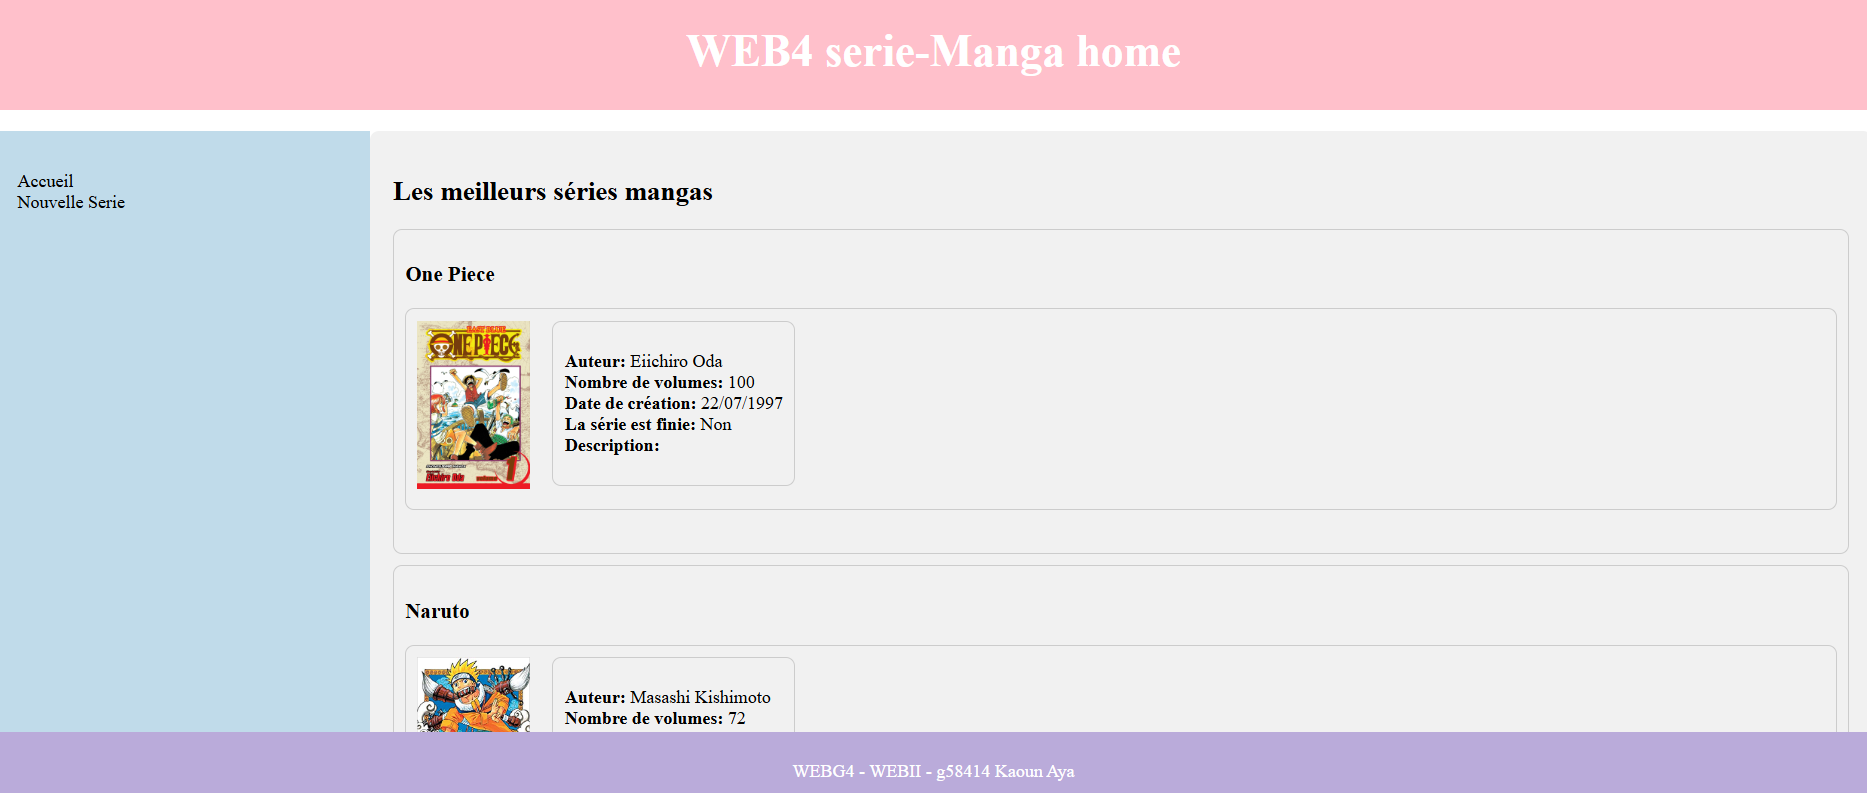
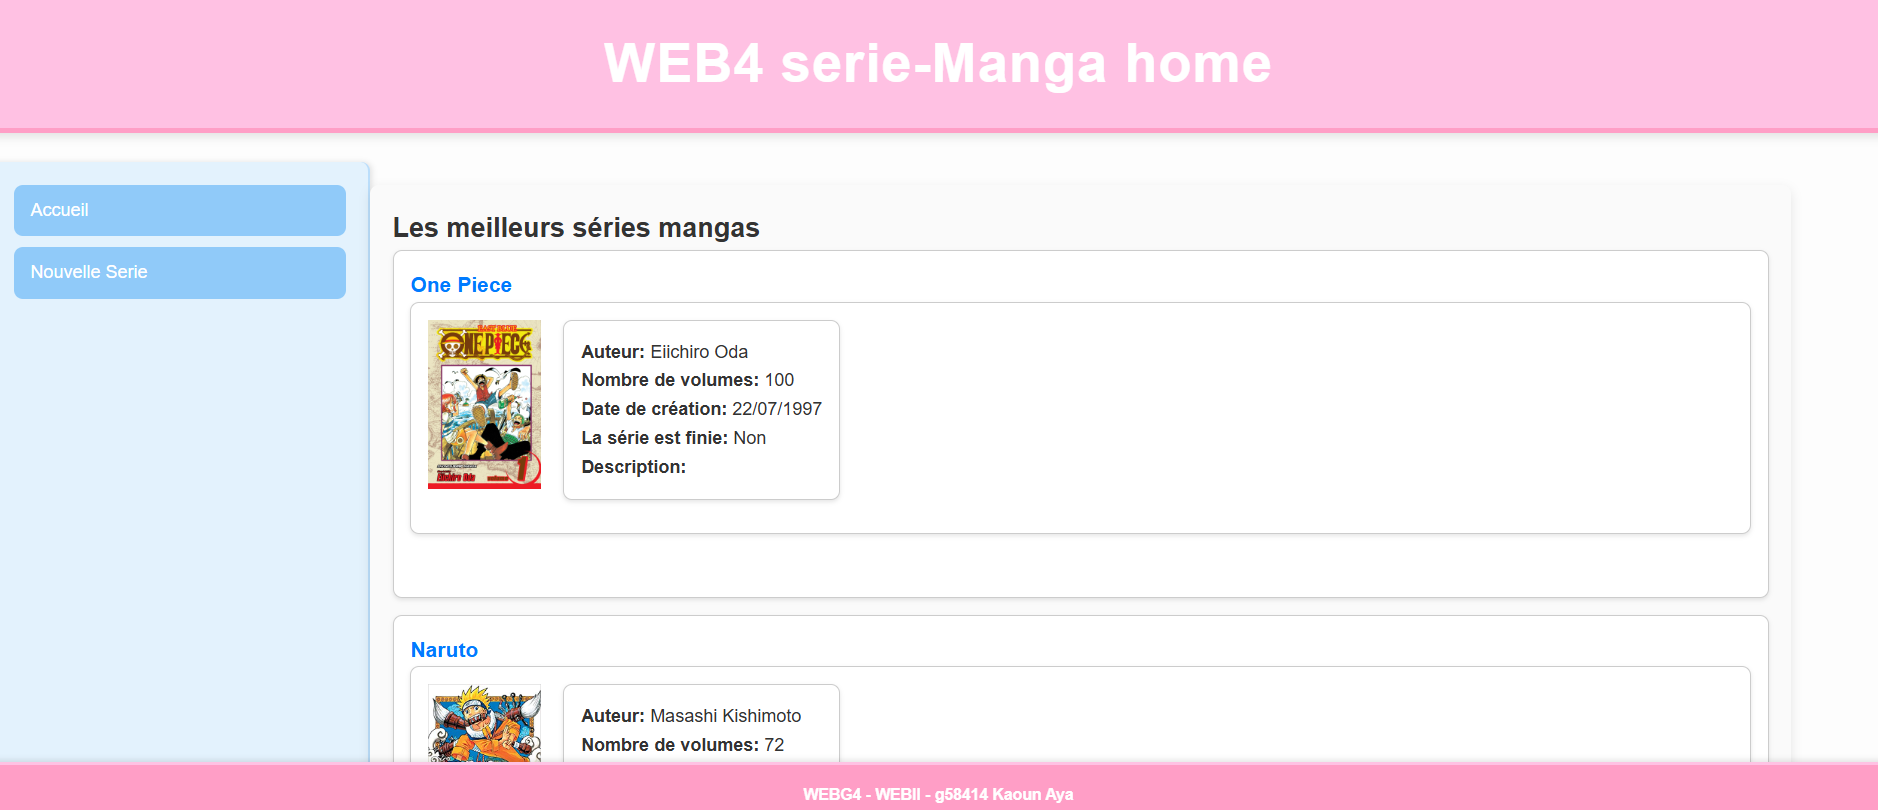
update pic

diff --git a/Mangas/public/css/manga.css b/Mangas/public/css/manga.css
@@ -1,94 +1,130 @@
-
 * {
-    box-sizing: border-box;
-  }
-  
-  #body {
-    font-family: Arial, Helvetica, sans-serif;
-  }
-  
-  /* Style the header */
-  #header {
-    background-color: pink;
-    padding: 2px;
-    text-align: center;
-    font-size: 20px;
-    color: white;
-  }
-  
-  /* Create two columns/boxes that floats next to each other */
-  #nav {
-    float: left;
-    width: 20%;
-    height: 100vh; /* only for demonstration, should be removed */
-    background: #C0DBEA;
-    padding: 20px;
-  }
-  
-  /* Style the list inside the menu */
-  #nav ul {
-    list-style-type: none;
-    padding: 0;
-  }
-  
+  box-sizing: border-box;
+  margin: 0;
+  padding: 0;
+}
+
+body {
+  font-family: 'Poppins', Arial, Helvetica, sans-serif;
+  background-color: #fdfdfd;
+  color: #333;
+  line-height: 1.6;
+}
+
+/* Style the header */
+#header {
+  background-color: #FFC1E3; /* Soft pink */
+  padding: 20px;
+  text-align: center;
+  font-size: 24px;
+  color: white;
+  border-bottom: 5px solid #FF9EC6;
+  font-weight: 700;
+  letter-spacing: 1px;
+  box-shadow: 0 4px 8px rgba(0, 0, 0, 0.1);
+}
+
+/* Style the navigation menu */
+#nav {
+  float: left;
+  width: 20%;
+  height: 100vh;
+  background: #E3F2FD; /* Light blue */
+  padding: 20px;
+  box-shadow: 2px 0 5px rgba(0, 0, 0, 0.1);
+  border-right: 2px solid #BBDEFB;
+  border-radius: 0 8px 8px 0;
+}
+
+#nav ul {
+  list-style-type: none;
+}
+
+#nav ul li {
+  margin-bottom: 10px;
+}
+
+#nav ul li a {
+  display: block;
+  padding: 10px 15px;
+  background: #90CAF9; /* Medium blue */
+  color: white;
+  font-weight: 500;
+  border-radius: 8px;
+  transition: background-color 0.3s ease;
+}
+
+#nav ul li a:hover {
+  background: #42A5F5; /* Darker blue for hover */
+  text-decoration: none;
+}
+
+/* Style the main article section */
+#article {
+  float: left;
+  padding: 20px;
+  width: 75%;
+  background-color: #FAFAFA; /* Soft white */
+  height: auto;
+  border-radius: 8px;
+  box-shadow: 0 4px 10px rgba(0, 0, 0, 0.1);
+  margin: 20px 0;
+}
+
+#article div {
+  border: 1px solid #ccc;
+  border-radius: 8px;
+  padding: 15px;
+  margin-bottom: 15px;
+  background: #FFFFFF;
+  box-shadow: 0 2px 4px rgba(0, 0, 0, 0.1);
+}
+
+/* Clear floats */
+#section::after {
+  content: "";
+  display: table;
+  clear: both;
+}
+
+/* Style the footer */
+#footer {
+  position: fixed;
+  bottom: 0;
+  left: 0;
+  width: 100%;
+  background-color: #FF9EC6; /* Softer pink */
+  padding: 15px;
+  text-align: center;
+  color: white;
+  font-size: 14px;
+  font-weight: 600;
+  border-top: 3px solid #FFC1E3;
+  box-shadow: 0 -2px 5px rgba(0, 0, 0, 0.1);
+}
+
+/* Links */
+a {
+  text-decoration: none;
+  color: #007BFF;
+}
+
+a:hover {
+  text-decoration: underline;
+  color: #0056b3;
+}
+
+/* Responsive layout */
+@media (max-width: 600px) {
+  #nav,
   #article {
-    float: left;
-    padding: 20px;
-    width: 80%;
-    background-color: #f1f1f1;
-    height: 2000px; /* only for demonstration, should be removed */
-    border-radius: 8px; /* Rounded edges */
-    
+    width: 100%;
+    float: none;
+    height: auto;
   }
   
-  #div {
-    border-radius: 8px; /* Rounded edges */
-  
+  #nav {
+    border-radius: 0;
+    box-shadow: none;
   }
-  #article div {
-    border: 1px solid #ccc; /* Border color for the div */
-    border-radius: 8px; /* Rounded edges */
-    padding: 10px; /* Add some padding inside the div */
-    margin-bottom: 10px; /* Add some space between the divs */
-  }
-
-  
-  /* Clear floats after the columns */
-  #section::after {
-    content: "";
-    display: table;
-    clear: both;
-  }
-  
-  /* Style the footer */
-  #footer {
-      position: fixed;
-      bottom: 0;
-      left: 0;
-      width: 100%;
-      background-color: #BAABDA;
-      padding: 10px;
-      text-align: center;
-      color: white;
-  }
-  
-  /* Responsive layout - makes the two columns/boxes stack on top of each other instead of next to each other, on small screens */
-  @media (max-width: 600px) {
-    nav, article {
-      width: 100%;
-      height: auto;
-    }
-  }
-
-  a {
-    text-decoration: none;
-    color: inherit; /* Use the same color as the surrounding text */
-  }
-
-/* Add some styles to make the anchor links look more aesthetic */
-  a:hover {
-    /* Add hover effect if you wish */
-    text-decoration: none;
-    color: #007bff; /* Change to your preferred color */
-    
-  }
+}

diff --git a/Mangas/resources/views/serie.blade.php b/Mangas/resources/views/serie.blade.php
@@ -1,39 +1,52 @@
 @extends('canvas')
 
-@section('title', 'serie')
+@section('title', 'Série')
 
 @section('article-content')
-<article>
-<h1>Création d'une nouvelle série</h1>
+<article class="container mt-5">
+    <h1 class="text-center mb-4">Création d'une nouvelle série</h1>
 
-<form action="{{ route('createSerie') }}" method="post">
-
-    @csrf
-    <label for="titre">Titre :</label>
-    <input type="text" id="titre" name="titre" required><br><br>
-
-    <label for="auteur">Auteur :</label>
-    <input type="text" id="auteur" name="auteur" required><br><br>
-
-    <label for="nombre_volumes">Nombre de volumes :</label>
-    <input type="number" id="nombre_volumes" name="nombre_volumes" required><br><br>
-
-    <label for="date_premiere_parution">Date de création :</label>
-    <input type="date" id="date_premiere_parution" name="date_premiere_parution" required><br><br>
-
-    <label for="couverture">Nom de couverture :</label>
-    <input type="text" id="couverture" name="couverture" required><br><br>
-
-    <label for="serie_finie">Série finie :</label>
-    <input type="checkbox" id="serie_finie" name="serie_finie" value="1"><br><br>
-
-    <input type="submit" value="Créer">
-</form>
-@if(Session::has('success'))
-        <div style="background-color: green; color: white; padding: 10px;position : fixed;">
+    @if(Session::has('success'))
+        <div class="alert alert-success alert-dismissible fade show" role="alert">
             {{ Session::get('success') }}
+            <button type="button" class="btn-close" data-bs-dismiss="alert" aria-label="Close"></button>
         </div>
     @endif
-   
+
+    <form action="{{ route('createSerie') }}" method="post" class="p-4 border rounded shadow-sm bg-light">
+        @csrf
+
+        <div class="mb-3">
+            <label for="titre" class="form-label">Titre</label>
+            <input type="text" id="titre" name="titre" class="form-control" placeholder="Entrez le titre" required>
+        </div>
+
+        <div class="mb-3">
+            <label for="auteur" class="form-label">Auteur</label>
+            <input type="text" id="auteur" name="auteur" class="form-control" placeholder="Entrez le nom de l'auteur" required>
+        </div>
+
+        <div class="mb-3">
+            <label for="nombre_volumes" class="form-label">Nombre de volumes</label>
+            <input type="number" id="nombre_volumes" name="nombre_volumes" class="form-control" placeholder="Ex: 10" required>
+        </div>
+
+        <div class="mb-3">
+            <label for="date_premiere_parution" class="form-label">Date de création</label>
+            <input type="date" id="date_premiere_parution" name="date_premiere_parution" class="form-control" required>
+        </div>
+
+        <div class="mb-3">
+            <label for="couverture" class="form-label">Nom de couverture</label>
+            <input type="text" id="couverture" name="couverture" class="form-control" placeholder="Entrez le nom de la couverture" required>
+        </div>
+
+        <div class="form-check mb-4">
+            <input type="checkbox" id="serie_finie" name="serie_finie" class="form-check-input" value="1">
+            <label for="serie_finie" class="form-check-label">Série finie</label>
+        </div>
+
+        <button type="submit" class="btn btn-primary w-100">Créer</button>
+    </form>
 </article>
 @endsection
